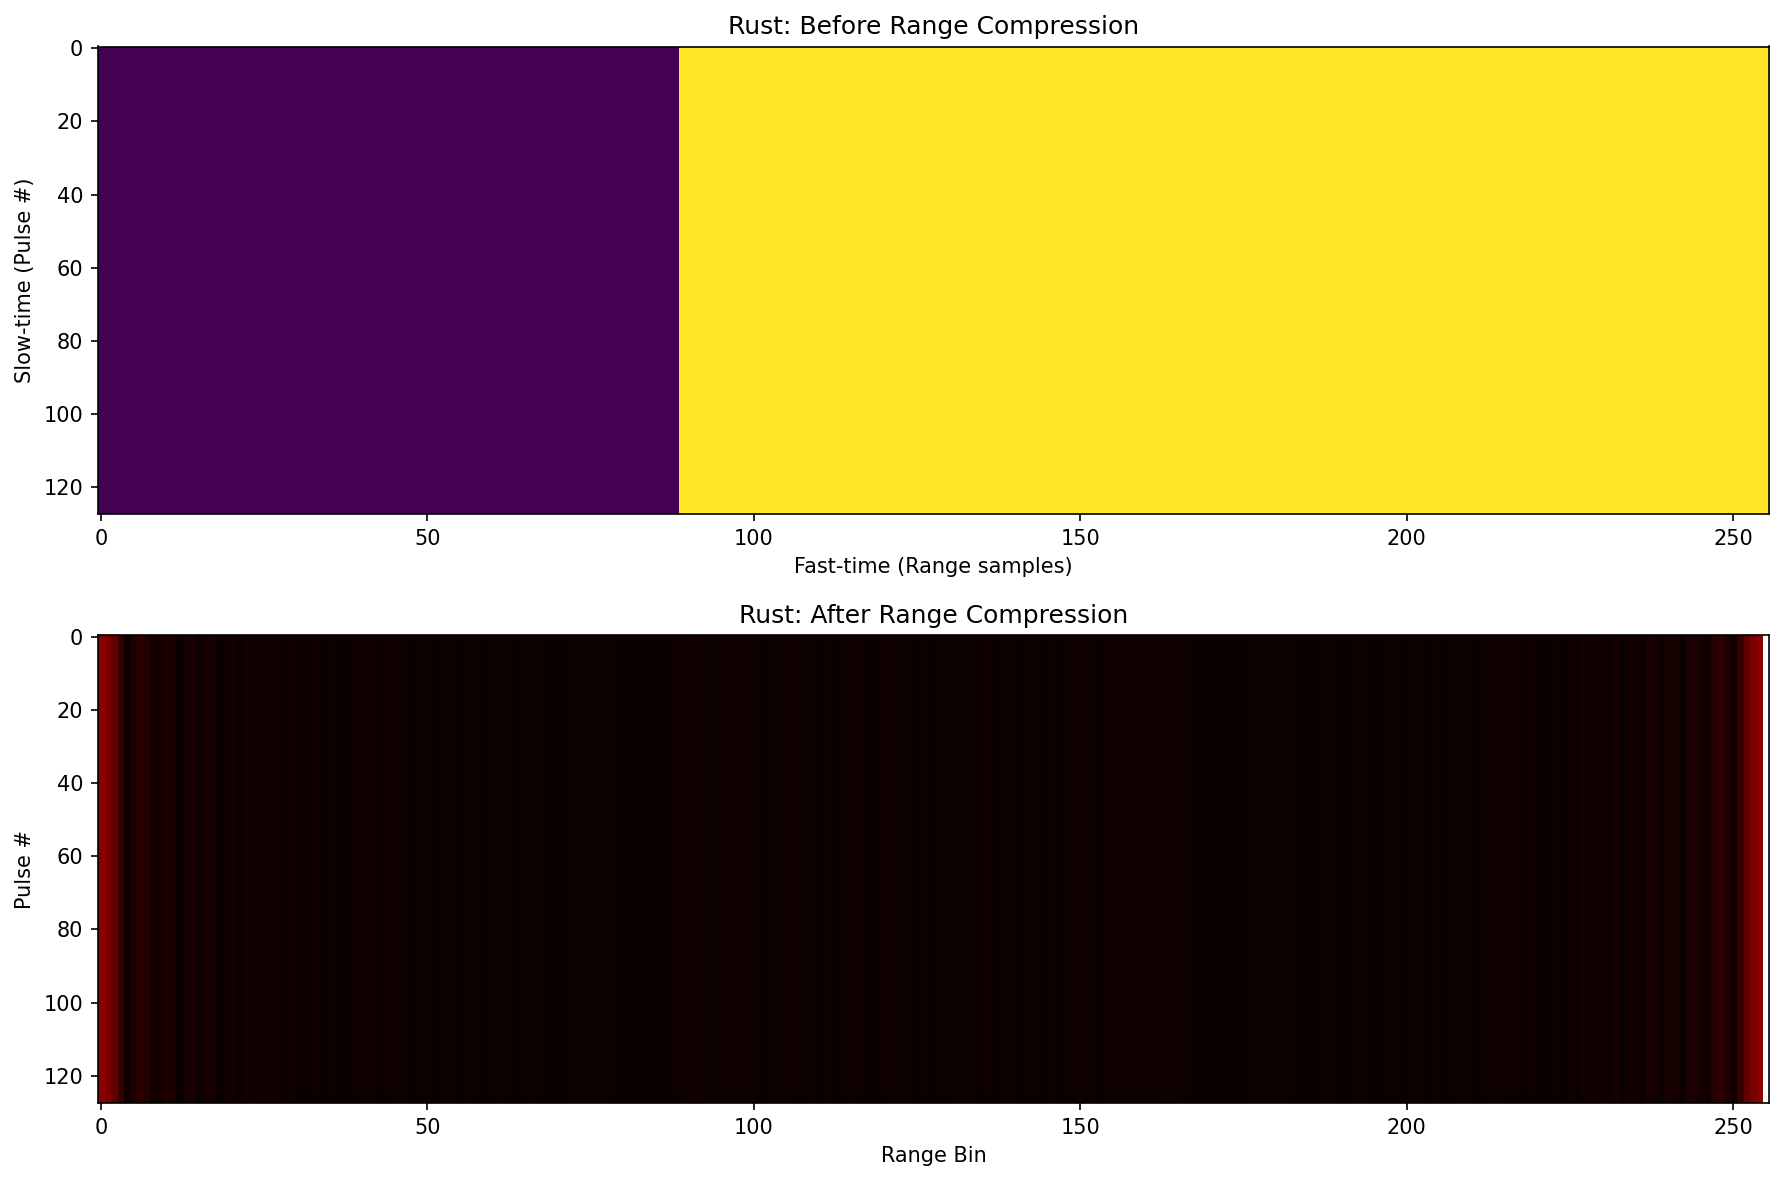
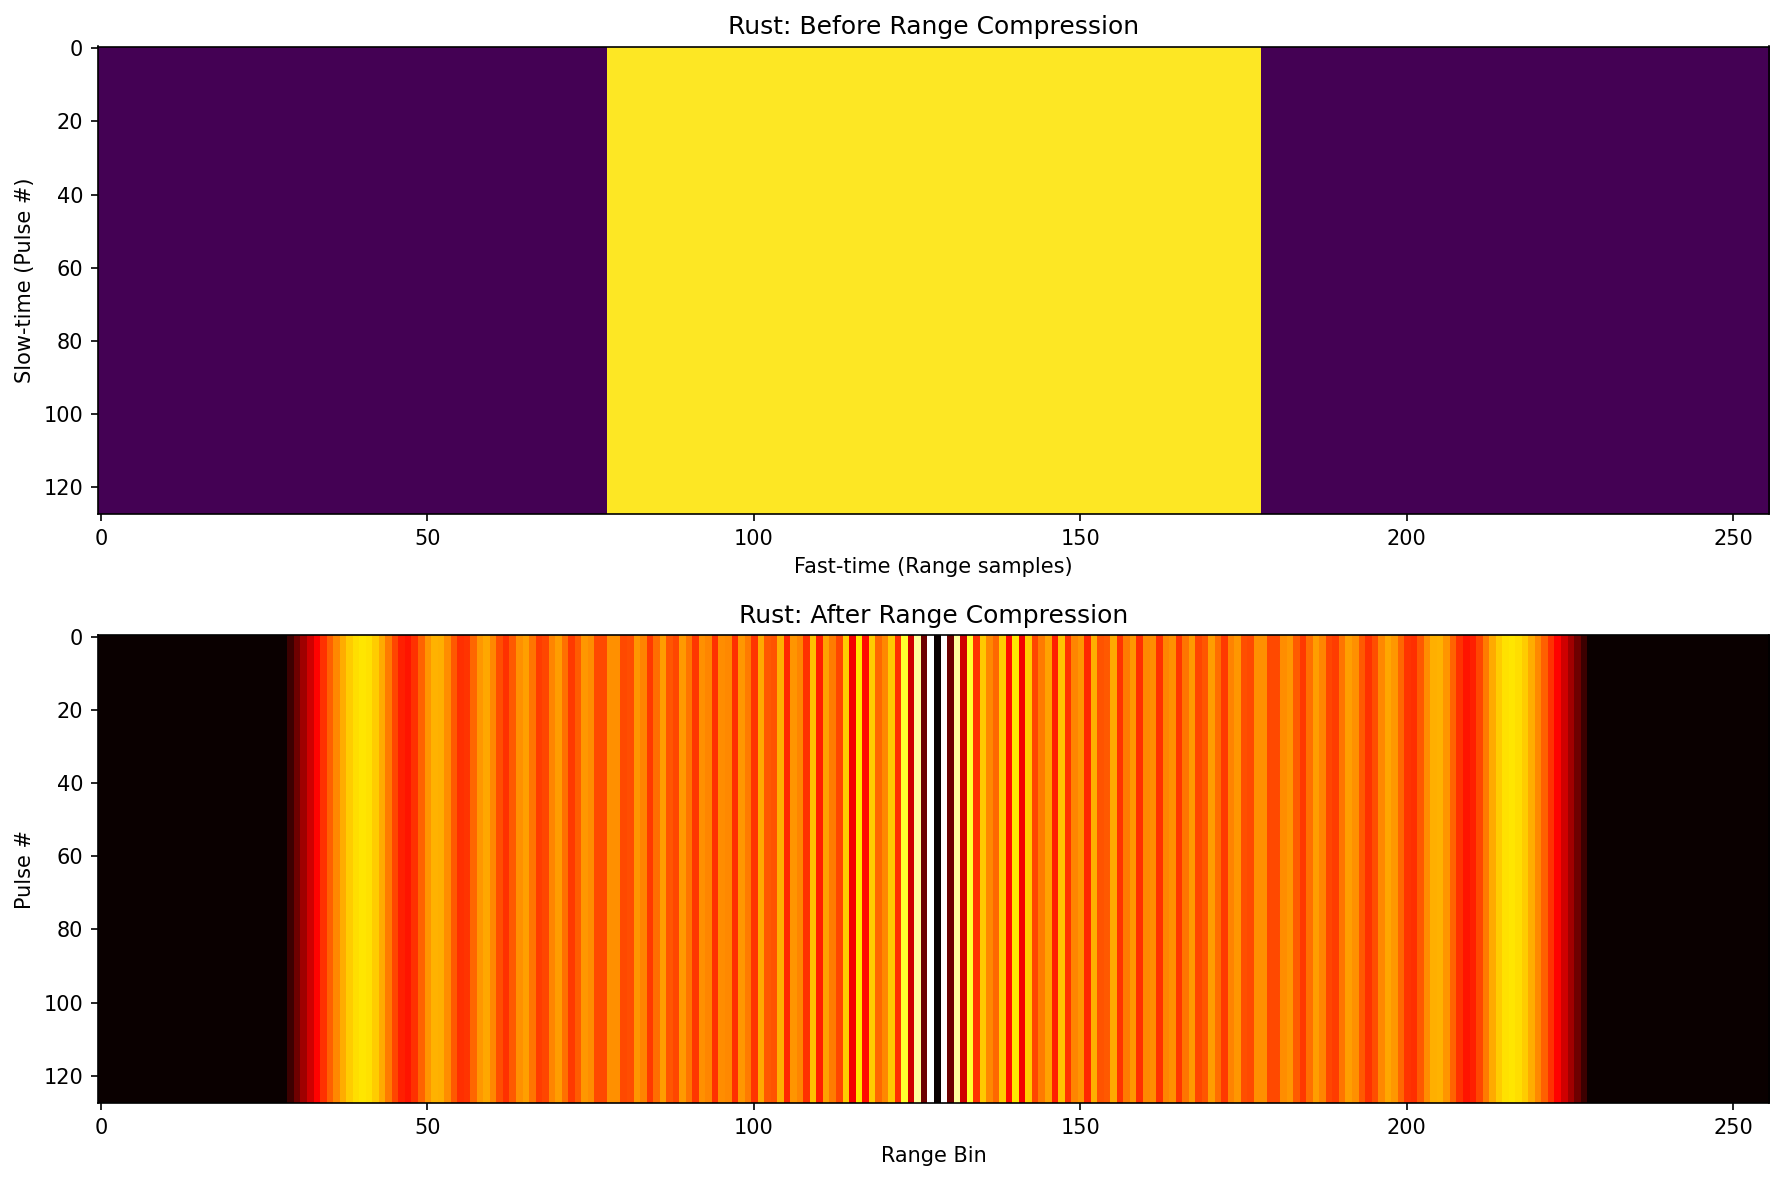
Center target at range bin ~128 using linear correlation for matched filtering

diff --git a/examples/generate_rust_plots.py b/examples/generate_rust_plots.py
@@ -16,16 +16,20 @@ def generate_lfm_pulse():
     """Generate LFM pulse matching Rust implementation"""
     num_samples = 256
     bandwidth = 100e6  # 100 MHz
-    pulse_width = 2e-6  # 2 microseconds
+    pulse_width = 1e-6  # 1 microsecond (shorter for centered target)
     sample_rate = 100e6  # 100 MHz sample rate
     
     # Generate LFM chirp
     chirp_rate = bandwidth / pulse_width
     
     # Create rectangular pulse envelope
+    # Position pulse so peak appears at center (bin ~128) after matched filtering
+    # With 'same' mode correlation, peak appears at pulse center
+    # pulse_samples = 100, center should be at 128, so start at 78
     pulse_envelope = np.zeros(num_samples)
-    pulse_start = int(num_samples * 0.35)  # Start at 35% for central peak position
-    pulse_end = pulse_start + int(pulse_width * sample_rate)  # Pulse duration
+    pulse_samples = int(pulse_width * sample_rate)
+    pulse_start = 78  # Chosen so peak appears at bin 128
+    pulse_end = pulse_start + pulse_samples
     pulse_envelope[pulse_start:pulse_end] = 1.0
     
     # Generate chirp phase (only within pulse)
@@ -58,21 +62,18 @@ def stack_pulses_rust(pulse, num_pulses=128):
 
 def range_compress_rust(stacked, reference):
     """Range compression matching Rust implementation"""
-    # Flatten stacked for processing
-    stacked_flat = stacked.flatten()
+    # Matched filter: correlate with conjugate of time-reversed reference
+    reference_matched = np.conj(reference[::-1])
     
-    # Matched filter: correlate with conjugate of reference pulse
-    reference_conj = np.conj(reference[::-1])  # Time-reversed conjugate
+    # Apply matched filter to each pulse using linear correlation
+    num_pulses, num_samples = stacked.shape
+    compressed = np.zeros((num_pulses, num_samples), dtype=complex)
     
-    # Pad to match stacked length
-    ref_padded = np.pad(reference_conj, (0, len(stacked_flat) - len(reference_conj)), 'constant')
+    for i in range(num_pulses):
+        # Use 'same' mode to keep same length and center the output
+        compressed[i, :] = np.correlate(stacked[i, :], reference_matched, mode='same')
     
-    # FFT-based correlation
-    signal_fft = np.fft.fft(stacked_flat)
-    ref_fft = np.fft.fft(ref_padded)
-    compressed = np.fft.ifft(signal_fft * ref_fft)
-    
-    return compressed
+    return compressed.flatten()
 
 def doppler_compress_rust(compressed, num_pulses, num_samples):
     """Doppler compression via FFT along slow-time"""

diff --git a/examples/generate_python_plots.py b/examples/generate_python_plots.py
@@ -11,16 +11,20 @@ def generate_lfm_pulse():
     """Generate LFM pulse matching Python implementation"""
     num_samples = 256
     bandwidth = 100e6  # 100 MHz
-    pulse_width = 2e-6  # 2 microseconds
+    pulse_width = 1e-6  # 1 microsecond (shorter for centered target)
     sample_rate = 100e6  # 100 MHz sample rate
     
     # Generate LFM chirp
     chirp_rate = bandwidth / pulse_width
     
     # Create rectangular pulse envelope
+    # Position pulse so peak appears at center (bin ~128) after matched filtering
+    # With 'same' mode correlation, peak appears at pulse center
+    # pulse_samples = 100, center should be at 128, so start at 78
     pulse_envelope = np.zeros(num_samples)
-    pulse_start = int(num_samples * 0.35)  # Start at 35% for central peak position
-    pulse_end = pulse_start + int(pulse_width * sample_rate)  # Pulse duration
+    pulse_samples = int(pulse_width * sample_rate)
+    pulse_start = 78  # Chosen so peak appears at bin 128
+    pulse_end = pulse_start + pulse_samples
     pulse_envelope[pulse_start:pulse_end] = 1.0
     
     # Generate chirp phase (only within pulse)
@@ -51,14 +55,14 @@ def stack_pulses_python(pulse, num_pulses=128):
 
 def range_compress_python(stacked, reference):
     """Range compression matching Python implementation"""
-    # Matched filter: correlate with conjugate of reference pulse
-    reference_conj = np.conj(reference[::-1])  # Time-reversed conjugate
+    # Matched filter: correlate with conjugate of time-reversed reference
+    reference_matched = np.conj(reference[::-1])
     
-    # Apply matched filter to each pulse
+    # Apply matched filter to each pulse using linear correlation
     compressed = []
     for pulse in stacked:
-        # Correlation via FFT
-        compressed_pulse = np.fft.ifft(np.fft.fft(pulse) * np.fft.fft(reference_conj, len(pulse)))
+        # Use 'same' mode to keep same length and center the output
+        compressed_pulse = np.correlate(pulse, reference_matched, mode='same')
         compressed.append(compressed_pulse)
     
     return np.array(compressed)

diff --git a/examples/python_radar_demo.py b/examples/python_radar_demo.py
@@ -28,7 +28,7 @@ def lfm_generator(inputs, variant_params):
     """
     num_samples = 256
     bandwidth = 100e6  # 100 MHz
-    pulse_width = 2e-6  # 2 microseconds pulse width
+    pulse_width = 1e-6  # 1 microsecond pulse width (shorter for centered target)
     sample_rate = 100e6  # 100 MHz sample rate
     
     # Generate LFM chirp
@@ -36,9 +36,13 @@ def lfm_generator(inputs, variant_params):
     t = np.arange(num_samples) / sample_rate
     
     # Create rectangular pulse envelope
+    # Position pulse so peak appears at center (bin ~128) after matched filtering
+    # With 'same' mode correlation, peak appears at pulse center
+    # pulse_samples = 100, center should be at 128, so start at 78
     pulse_envelope = np.zeros(num_samples)
-    pulse_start = int(num_samples * 0.35)  # Start at 35% for central peak position
-    pulse_end = pulse_start + int(pulse_width * sample_rate)  # Pulse duration
+    pulse_samples = int(pulse_width * sample_rate)
+    pulse_start = 78  # Chosen so peak appears at bin 128
+    pulse_end = pulse_start + pulse_samples
     pulse_envelope[pulse_start:pulse_end] = 1.0
     
     # Generate chirp phase (only within pulse)

diff --git a/examples/radar_demo.rs b/examples/radar_demo.rs
@@ -36,15 +36,18 @@ fn lfm_generator(_inputs: &HashMap<String, GraphData>, params: &HashMap<String, 
     
     let pulse_width = params.get("pulse_width")
         .and_then(|d| d.as_float())
-        .unwrap_or(2e-6); // 2 microseconds
+        .unwrap_or(1e-6); // 1 microsecond (shorter pulse for centered target)
     
     let sample_rate = 100e6; // 100 MHz sample rate
     
     // Generate LFM pulse with rectangular envelope
     let chirp_rate = bandwidth / pulse_width;
     
-    let pulse_start = (num_samples as f64 * 0.35) as usize; // Start at 35% for central peak position
+    // Position pulse so peak appears at center (bin ~128) after matched filtering
+    // With 'same' mode correlation, peak appears at pulse center
+    // pulse_samples = 100, center should be at 128, so start at 78
     let pulse_samples = (pulse_width * sample_rate) as usize;
+    let pulse_start = 78; // Chosen so peak appears at bin 128
     let pulse_end = (pulse_start + pulse_samples).min(num_samples);
     
     let mut signal = Array1::<Complex<f64>>::zeros(num_samples);
